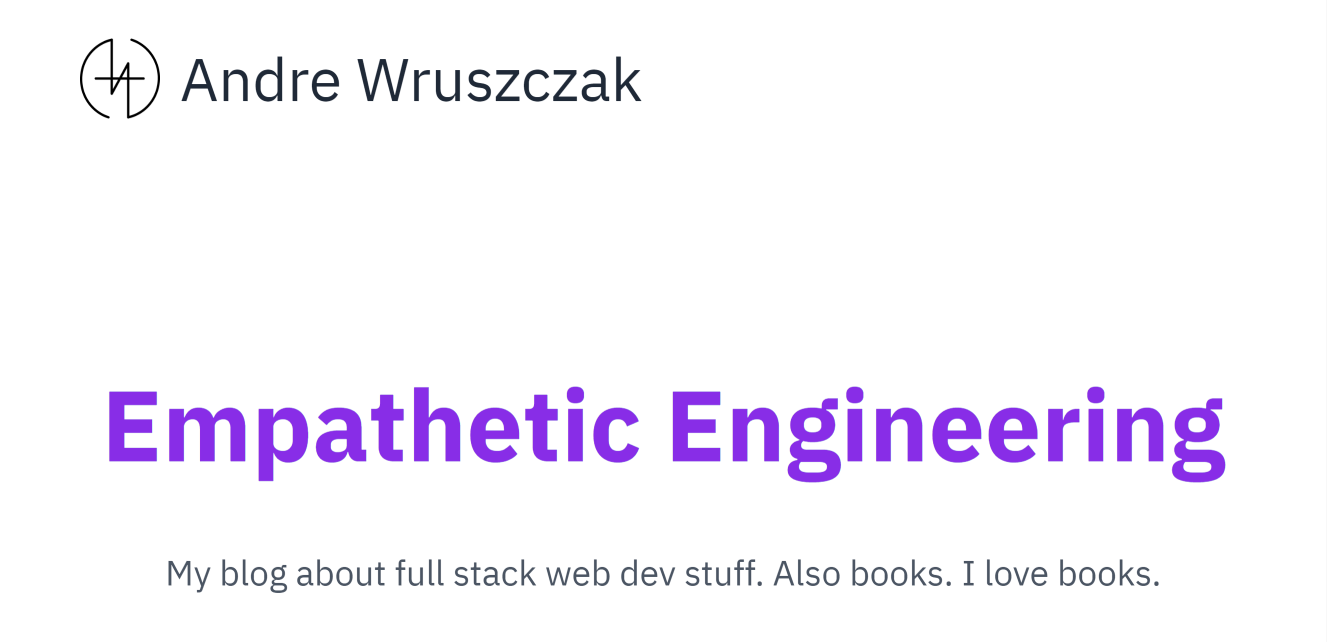
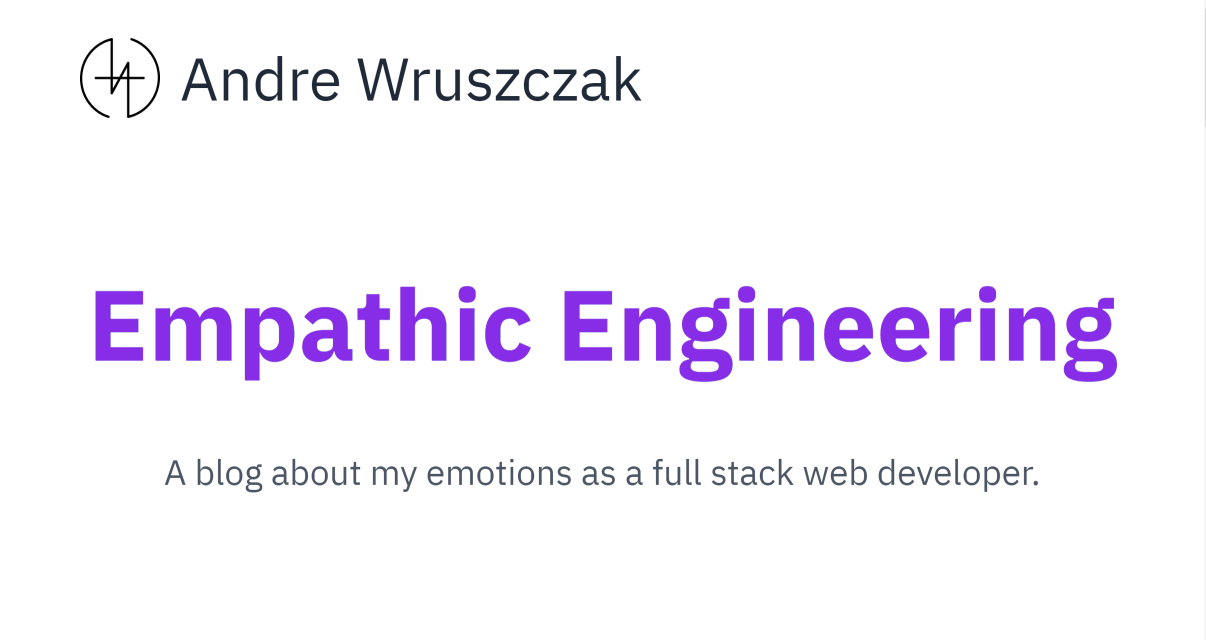
deploy: 395212b71f9b4bba1021d41710f57cf7c018668d

Changed region(s): [[0.0614, 0.4375, 0.9511, 0.7812], [0.1227, 0.875, 0.8897, 0.9375], [0.0614, 0.0625, 0.5522, 0.1875]]

diff --git a/index.html b/index.html
@@ -1,5 +1,5 @@
 <!DOCTYPE html>
-<html lang="en" class="astro-WEFTN6OV">
+<html lang="en" class="astro-2A7SWPV7">
 
 <head>
   <!-- Global Metadata --><meta charset="utf-8">
@@ -7,22 +7,22 @@
 <link rel="icon" type="image/x-icon" href="/favicon.ico">
 
 <!-- Primary Meta Tags -->
-<title>Empathetic Engineering</title>
-<meta name="title" content="Empathetic Engineering">
-<meta name="description" content="My blog about full stack web dev stuff. Also books. I love books.">
+<title>Empathic Engineering</title>
+<meta name="title" content="Empathic Engineering">
+<meta name="description" content="A blog about my emotions as a full stack web developer.">
 
 <!-- Open Graph / Facebook -->
 <meta property="og:type" content="website">
 <meta property="og:url" content="https://andrewru.com/">
-<meta property="og:title" content="Empathetic Engineering">
-<meta property="og:description" content="My blog about full stack web dev stuff. Also books. I love books.">
+<meta property="og:title" content="Empathic Engineering">
+<meta property="og:description" content="A blog about my emotions as a full stack web developer.">
 <meta property="og:image" content="https://andrewru.com/social.png">
 
 <!-- Twitter -->
 <meta property="twitter:card" content="summary_large_image">
 <meta property="twitter:url" content="https://andrewru.com/">
-<meta property="twitter:title" content="Empathetic Engineering">
-<meta property="twitter:description" content="My blog about full stack web dev stuff. Also books. I love books.">
+<meta property="twitter:title" content="Empathic Engineering">
+<meta property="twitter:description" content="A blog about my emotions as a full stack web developer.">
 <meta property="twitter:image" content="https://andrewru.com/social.png">
 
 <!-- Fonts -->
@@ -32,7 +32,7 @@
   
 <link rel="stylesheet" href="/assets/asset.c5f80a30.css" />
 <link rel="stylesheet" href="/assets/asset.9bf024ef.css" />
-<link rel="stylesheet" href="/assets/asset.b5db5706.css" />
+<link rel="stylesheet" href="/assets/asset.f776beea.css" />
 </head>
 
 <body>
@@ -46,15 +46,15 @@
     </h1>
   </article>
 </header>
-  <div class="wrapper astro-WEFTN6OV">
-    <main class="content astro-WEFTN6OV">
-      <section class="intro astro-WEFTN6OV">
+  <div class="wrapper astro-2A7SWPV7">
+    <main class="content astro-2A7SWPV7">
+      <section class="intro astro-2A7SWPV7">
         <h1 class="astro-2MFPSOMJ">
-  Empathetic Engineering
+  Empathic Engineering
 </h1>
-        <p class="astro-WEFTN6OV">My blog about full stack web dev stuff. Also books. I love books.</p>
+        <p class="astro-2A7SWPV7">A blog about my emotions as a full stack web developer.</p>
       </section>
-      <section aria-label="Blog post list" class="astro-WEFTN6OV">
+      <section aria-label="Blog post list" class="astro-2A7SWPV7">
         <article class="post-preview astro-HGEX7GTA">
   <header class="astro-HGEX7GTA">
     <p class="publish-date astro-HGEX7GTA">08 Jun 2022</p>

diff --git a/assets/asset.f776beea.css b/assets/asset.f776beea.css
@@ -1,0 +1,1 @@
+header.astro-2A7SWPV7{width:100%;height:100%;background-color:var(--theme-bg-offset);display:flex;align-items:center;justify-content:center}.content.astro-2A7SWPV7{margin-top:4rem;margin-bottom:8rem}.content.astro-2A7SWPV7 main>*+*{margin-top:1rem}.intro.astro-2A7SWPV7{padding-bottom:4rem;margin-bottom:2rem;border-bottom:4px solid var(--theme-divider);text-align:center}.intro.astro-2A7SWPV7>.astro-2A7SWPV7{margin:0}.content.astro-HGEX7GTA main>*+*{margin-top:1rem}.post-preview.astro-HGEX7GTA{padding-bottom:2rem;margin-bottom:2rem;border-bottom:4px solid var(--theme-divider)}header.astro-HGEX7GTA{align-items:flex-start;display:flex;flex-direction:column;justify-content:center;text-align:left}.title.astro-HGEX7GTA,.author.astro-HGEX7GTA,.publish-date.astro-HGEX7GTA{margin:0}.publish-date.astro-HGEX7GTA,.author.astro-HGEX7GTA{font-size:1.25rem;color:var(--theme-text-lighter)}.title.astro-HGEX7GTA{font-size:2.25rem;font-weight:700;color:var(--theme-text)}
